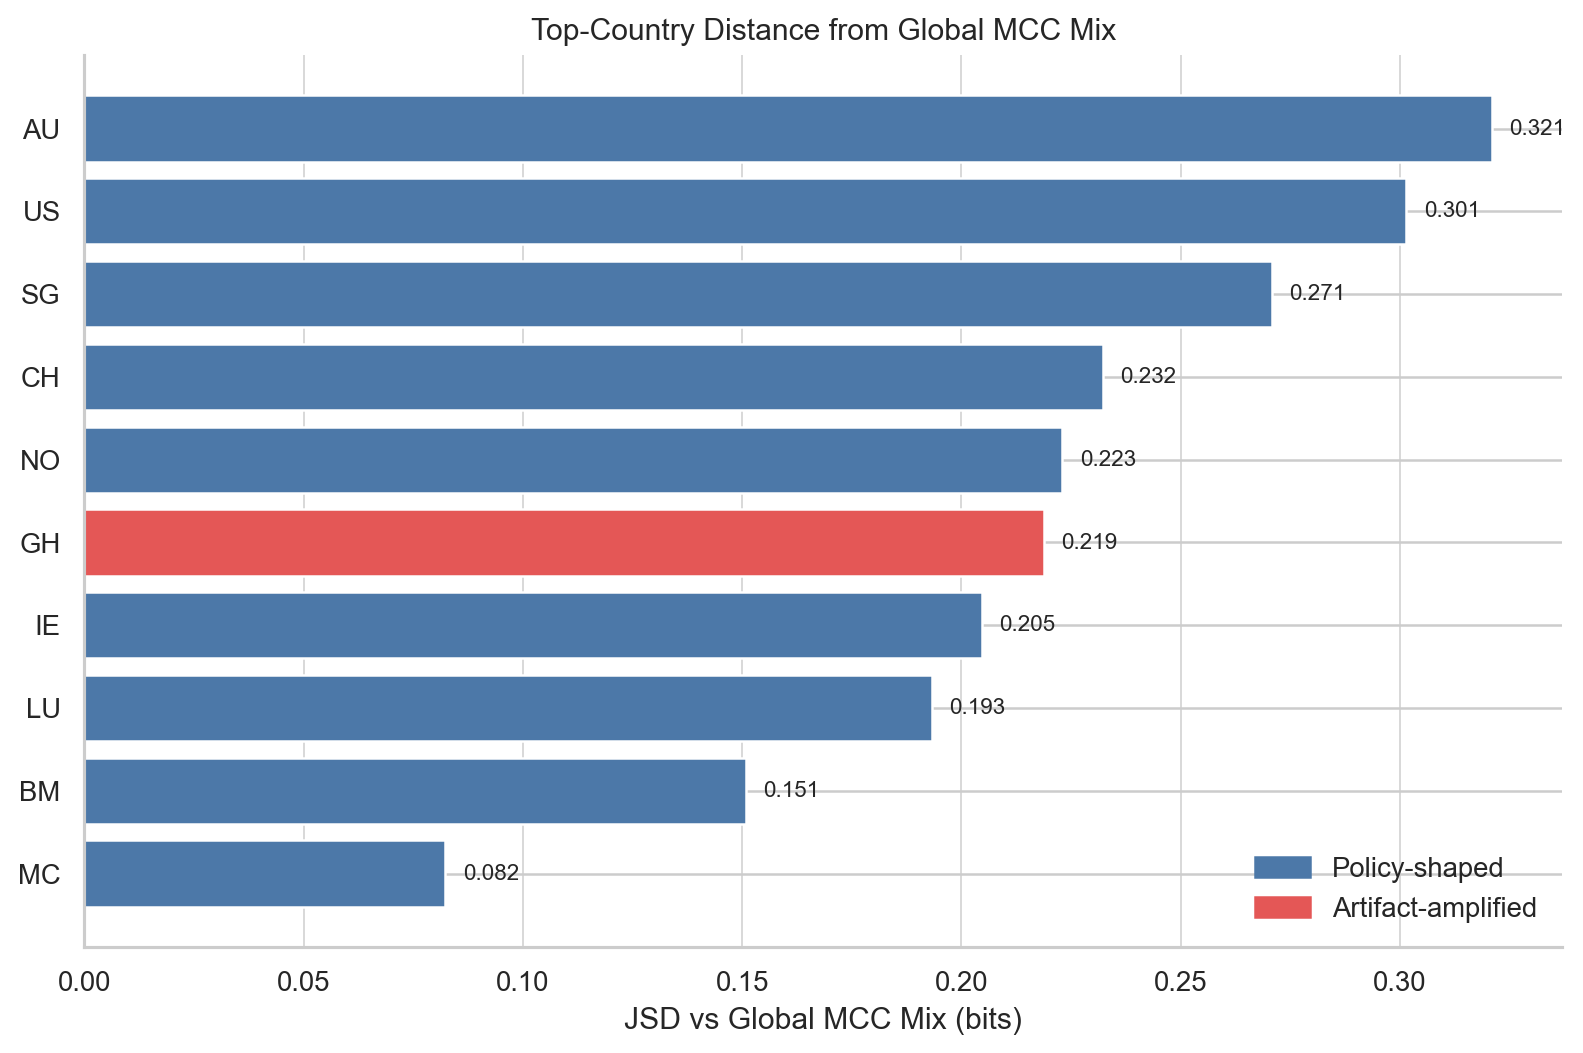
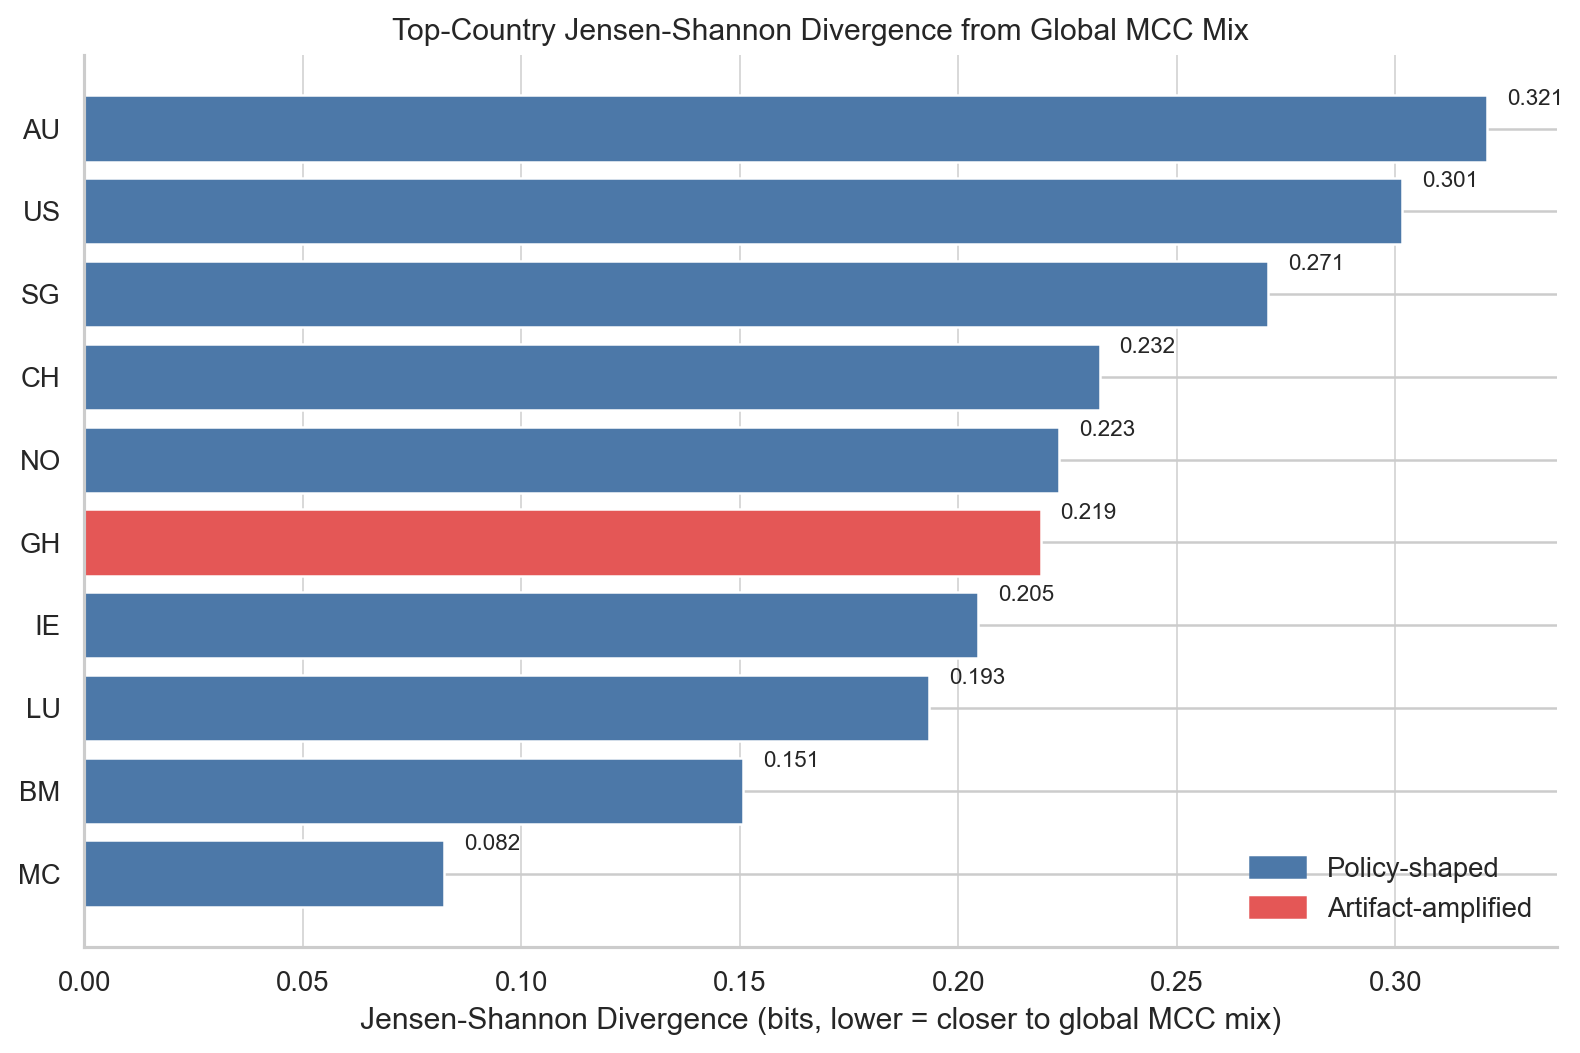
Refine title and label for top-country Jensen-Shannon divergence plot for clarity

diff --git a/analysis/dev_full_offline_investigation/00_investigation/watson_workbench/scratch/plot_transaction_schema_top_country_mix.py b/analysis/dev_full_offline_investigation/00_investigation/watson_workbench/scratch/plot_transaction_schema_top_country_mix.py
@@ -92,8 +92,8 @@ def draw_mcc_distance_plot() -> Path:
         df_jsd["mcc_jsd_vs_global_bits"],
         color=df_jsd["shape_classification"].map(palette),
     )
-    ax.set_title("Top-Country Distance from Global MCC Mix")
-    ax.set_xlabel("JSD vs Global MCC Mix (bits)")
+    ax.set_title("Top-Country Jensen-Shannon Divergence from Global MCC Mix")
+    ax.set_xlabel("Jensen-Shannon Divergence (bits, lower = closer to global MCC mix)")
     ax.set_ylabel("")
     ax.grid(axis="x", color="#D9D9D9", linewidth=0.8)
     ax.spines["top"].set_visible(False)
